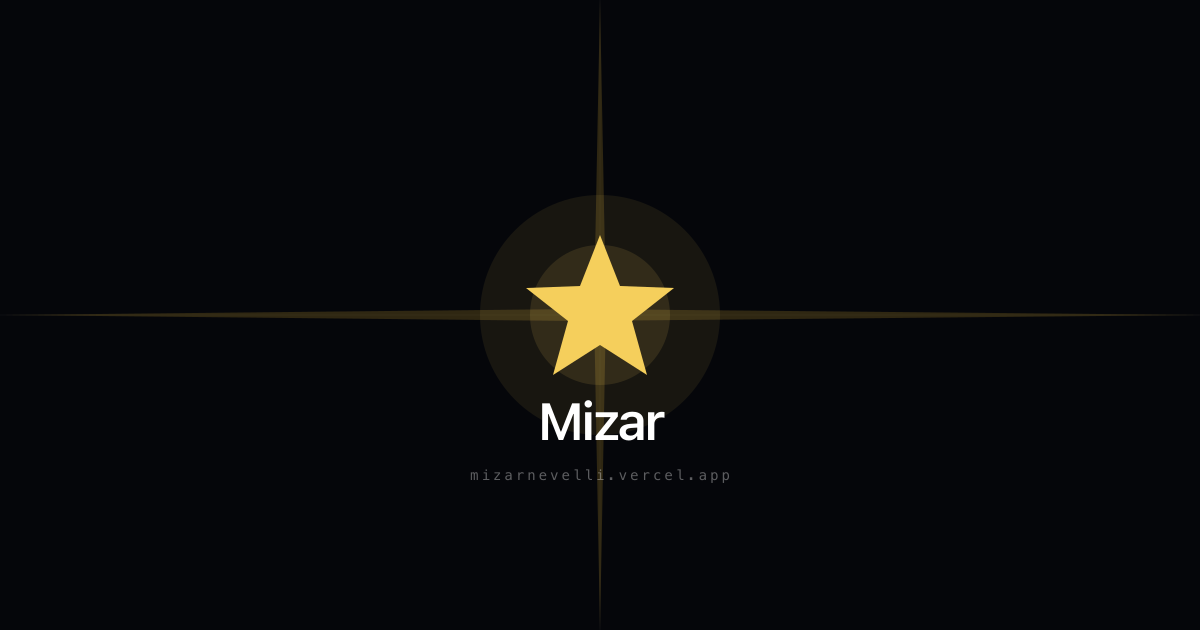
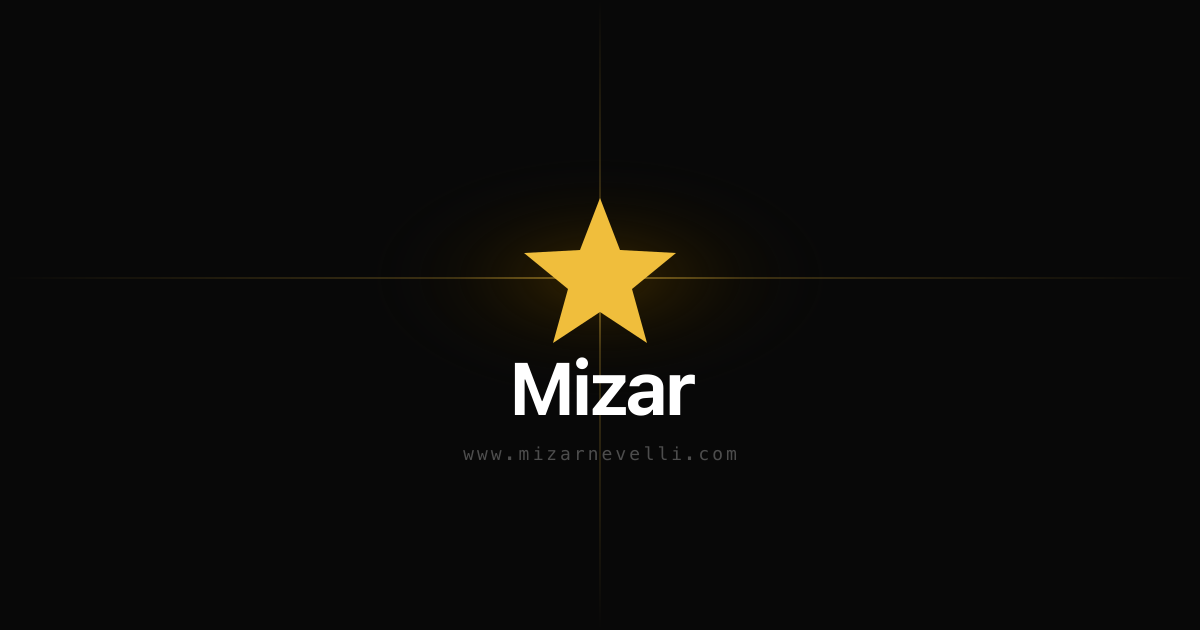
add:constants file fix:various old vercel domain

Changed region(s): [[0.0617, 0.2413, 0.925, 0.7841], [0.5858, 0.6937, 0.6167, 0.754]]

diff --git a/index.html b/index.html
@@ -8,24 +8,18 @@
 
     <!-- ROUTE_META_START -->
     <title>Mizar</title>
-    <meta name="description" content="Mizar Nevelli - JS engineer" />
-    <link rel="canonical" href="https://mizarnevelli.vercel.app" />
+    <meta name="description" content="Interactive JavaScript explainers built by a developer who codes on the road." />
+    <link rel="canonical" href="https://www.mizarnevelli.com" />
     <meta property="og:type" content="website" />
     <meta property="og:site_name" content="Mizar" />
     <meta property="og:title" content="Mizar" />
-    <meta property="og:description" content="Mizar Nevelli - JS engineer" />
-    <meta
-      property="og:image"
-      content="https://mizarnevelli.vercel.app/og.png"
-    />
-    <meta property="og:url" content="https://mizarnevelli.vercel.app" />
+    <meta property="og:description" content="Interactive JavaScript explainers built by a developer who codes on the road." />
+    <meta property="og:image" content="https://www.mizarnevelli.com/og.png" />
+    <meta property="og:url" content="https://www.mizarnevelli.com" />
     <meta name="twitter:card" content="summary_large_image" />
     <meta name="twitter:title" content="Mizar" />
-    <meta name="twitter:description" content="Mizar Nevelli - JS engineer" />
-    <meta
-      name="twitter:image"
-      content="https://mizarnevelli.vercel.app/og.png"
-    />
+    <meta name="twitter:description" content="Interactive JavaScript explainers built by a developer who codes on the road." />
+    <meta name="twitter:image" content="https://www.mizarnevelli.com/og.png" />
     <!-- ROUTE_META_END -->
 
     <link rel="preconnect" href="https://fonts.googleapis.com" />

diff --git a/src/pages/NomadTaxCalculator/types.ts b/src/pages/NomadTaxCalculator/types.ts
@@ -1,14 +1,14 @@
 export type Trip = {
   id: string;
-  country: string;   // ISO 3166-1 alpha-2, e.g. "PT"
+  country: string; // ISO 3166-1 alpha-2, e.g. "PT"
   startDate: string; // YYYY-MM-DD
-  endDate: string;   // YYYY-MM-DD
+  endDate: string; // YYYY-MM-DD
 };
 
 export type RiskWindow = {
   windowStart: string; // YYYY-MM-DD — first day of the worst 365-day window
-  windowEnd: string;   // YYYY-MM-DD — windowStart + 364 days
-  days: number;        // how many days in that country fell inside this window
+  windowEnd: string; // YYYY-MM-DD — windowStart + 364 days
+  days: number; // how many days in that country fell inside this window
 };
 
 export type CountryRiskResult = {
@@ -18,5 +18,3 @@ export type CountryRiskResult = {
   riskWindow: RiskWindow;
   atRisk: boolean;
 };
-
-export const THRESHOLD = 183;

diff --git a/src/pages/Contact/ContactPage.tsx b/src/pages/Contact/ContactPage.tsx
@@ -2,14 +2,15 @@ import { motion } from "framer-motion";
 import { useTranslation } from "react-i18next";
 import { ContactCard } from "./ContactCard";
 import { PageMeta } from "../../components/PageMeta";
-
-const EMAIL = "mizarnevelli@gmail.com";
-const WHATSAPP_NUMBER = "393425021651";
-const WHATSAPP_DISPLAY = "+39 342 502 1651";
-const GITHUB_URL = "https://github.com/MizarNevelli";
-const GITHUB_HANDLE = "@MizarNevelli";
-const LINKEDIN_URL = "https://www.linkedin.com/in/mizar-nevelli/";
-const LINKEDIN_HANDLE = "Mizar Nevelli";
+import {
+  EMAIL,
+  GITHUB_HANDLE,
+  GITHUB_URL,
+  LINKEDIN_HANDLE,
+  LINKEDIN_URL,
+  WHATSAPP_DISPLAY,
+  WHATSAPP_NUMBER,
+} from "../../constants";
 
 export function ContactPage() {
   const { t } = useTranslation();

diff --git a/src/pages/NomadTaxCalculator/components/CountryRiskCard.tsx b/src/pages/NomadTaxCalculator/components/CountryRiskCard.tsx
@@ -1,7 +1,7 @@
 import { useTranslation } from "react-i18next";
 import type { CountryRiskResult } from "../types";
-import { THRESHOLD } from "../types";
 import { countryName } from "../utils/countryName";
+import { THRESHOLD } from "../../../constants";
 
 type Props = {
   result: CountryRiskResult;
@@ -17,8 +17,8 @@ export function CountryRiskCard({ result }: Props) {
   const barColor = atRisk
     ? "bg-red-500"
     : pct >= 70
-    ? "bg-yellow-500"
-    : "bg-accent";
+      ? "bg-yellow-500"
+      : "bg-accent";
 
   return (
     <div

diff --git a/src/constants.ts b/src/constants.ts
@@ -1,0 +1,12 @@
+export const SITE_URL =
+  import.meta.env.VITE_SITE_URL ?? "https://www.mizarnevelli.com";
+
+export const EMAIL = "mizarnevelli@gmail.com";
+export const WHATSAPP_NUMBER = "393425021651";
+export const WHATSAPP_DISPLAY = "+39 342 502 1651";
+export const GITHUB_URL = "https://github.com/MizarNevelli";
+export const GITHUB_HANDLE = "@MizarNevelli";
+export const LINKEDIN_URL = "https://www.linkedin.com/in/mizar-nevelli/";
+export const LINKEDIN_HANDLE = "Mizar Nevelli";
+
+export const THRESHOLD = 183;

diff --git a/tests/unit/nomad-dateMath.test.ts b/tests/unit/nomad-dateMath.test.ts
@@ -5,7 +5,7 @@ import {
   maxDaysInRollingWindow,
   computeResidencyRisk,
 } from "../../src/pages/NomadTaxCalculator/utils/dateMath";
-import { THRESHOLD } from "../../src/pages/NomadTaxCalculator/types";
+import { THRESHOLD } from "../../src/constants";
 
 // ── Helpers ───────────────────────────────────────────────────────────────────
 

diff --git a/src/pages/NomadTaxCalculator/utils/dateMath.ts b/src/pages/NomadTaxCalculator/utils/dateMath.ts
@@ -1,5 +1,5 @@
+import { THRESHOLD } from "../../../constants";
 import type { Trip, RiskWindow, CountryRiskResult } from "../types";
-import { THRESHOLD } from "../types";
 
 // ── Primitives ────────────────────────────────────────────────────────────────
 

diff --git a/src/pages/Blog/BlogPostPage.tsx b/src/pages/Blog/BlogPostPage.tsx
@@ -5,8 +5,7 @@ import type { Post, PostFrontmatter } from "./types";
 import { PageMeta } from "../../components/PageMeta";
 import { formatDate } from "../../utils/format";
 
-const SITE_URL =
-  import.meta.env.VITE_SITE_URL ?? "https://mizarnevelli.vercel.app";
+import { SITE_URL } from "../../constants";
 
 const modules = import.meta.glob<{
   default: React.ComponentType;

diff --git a/src/components/PageMeta.tsx b/src/components/PageMeta.tsx
@@ -1,5 +1,4 @@
-const SITE_URL =
-  import.meta.env.VITE_SITE_URL ?? "https://mizarnevelli.vercel.app";
+import { SITE_URL } from "../constants";
 
 type Props = {
   title: string;
